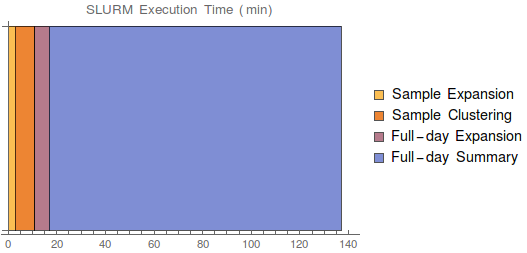
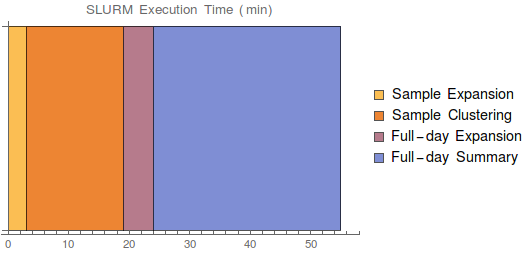
New info for runtime

diff --git a/_posts/2015-11-08-new-analysis.md b/_posts/2015-11-08-new-analysis.md
@@ -9,13 +9,19 @@ tagline:
 
 ## SLURM Integration
 
-Using `ionic` cluster with SLURM scheduling script, we can increase the number of processors for our day-summary pipeline. This turned our previous multi-day cycles pipeline into an overnight one.
+Using `ionic` cluster with SLURM scheduling script, we can increase the number of processors for our day-summary pipeline. This took a lot of annoying sysadmin work (libc version was different between cluster computers), but in the end was very successful.
 
 ![slurm-time](/assets/slurm-completion-1.png){: .center-image }
 
-Note: above is estimated completion time on a partial sample (scaled by a factor of 10).
+**End to end runtime**: 1 hour! Much less than `cycles`-only, which was >1 day.
 
-Still could take advantage of more parallelism, but the next step up is generally hidden from undergrads.
+Still could take advantage of more parallelism, but the next steps up (Della/Hecate/Orbital/Tiger clusters) are generally hidden from undergrads. We'll probably stick to `ionic`.
+
+**Future improvements**
+
+  1. Can parallelize sample expansion and learning with full-day expansion
+  2. Make some easy optimizations to the Python code itself soe we can run more processes at the same time (bottlenecked by memory usage)
+  3. Nicer error handling.
 
 ## Changes to the Pipeline
 
